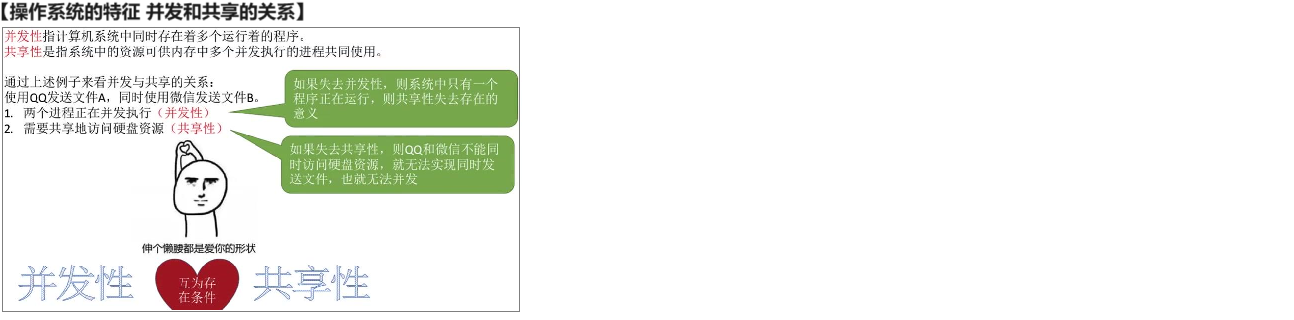
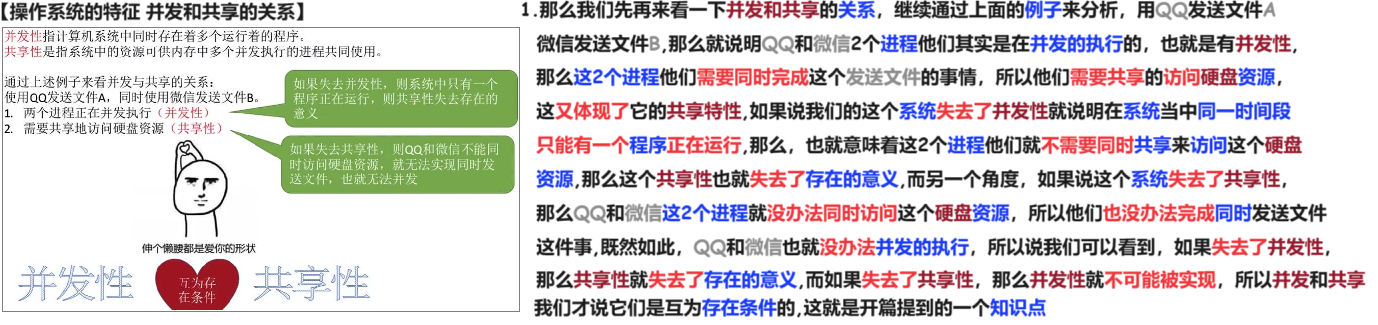
240518

diff --git a/01 初试/01 OS/02 24 25 王道/01 基础/01 计算机系统 概述/01 操作系统 基本概念/02 操作系统 特征 240518/02 Doc.md b/01 初试/01 OS/02 24 25 王道/01 基础/01 计算机系统 概述/01 操作系统 基本概念/02 操作系统 特征 240518/02 Doc.md
@@ -21,3 +21,16 @@
 
 
 # 06 操作系统的特征 并发和共享的关系
+
+<img src="https://cvp.oss-cn-shanghai.aliyuncs.com/picgo/202405182054531.png" alt="image-20240518205444378" style="zoom:50%;" />
+
+
+
+# 07 操作系统的特征 虚拟
+
+<img src="https://cvp.oss-cn-shanghai.aliyuncs.com/picgo/202405182119819.png" alt="image-20240518211959491" style="zoom:33%;" />
+
+
+
+# 08 操作系统的特征 异步
+
